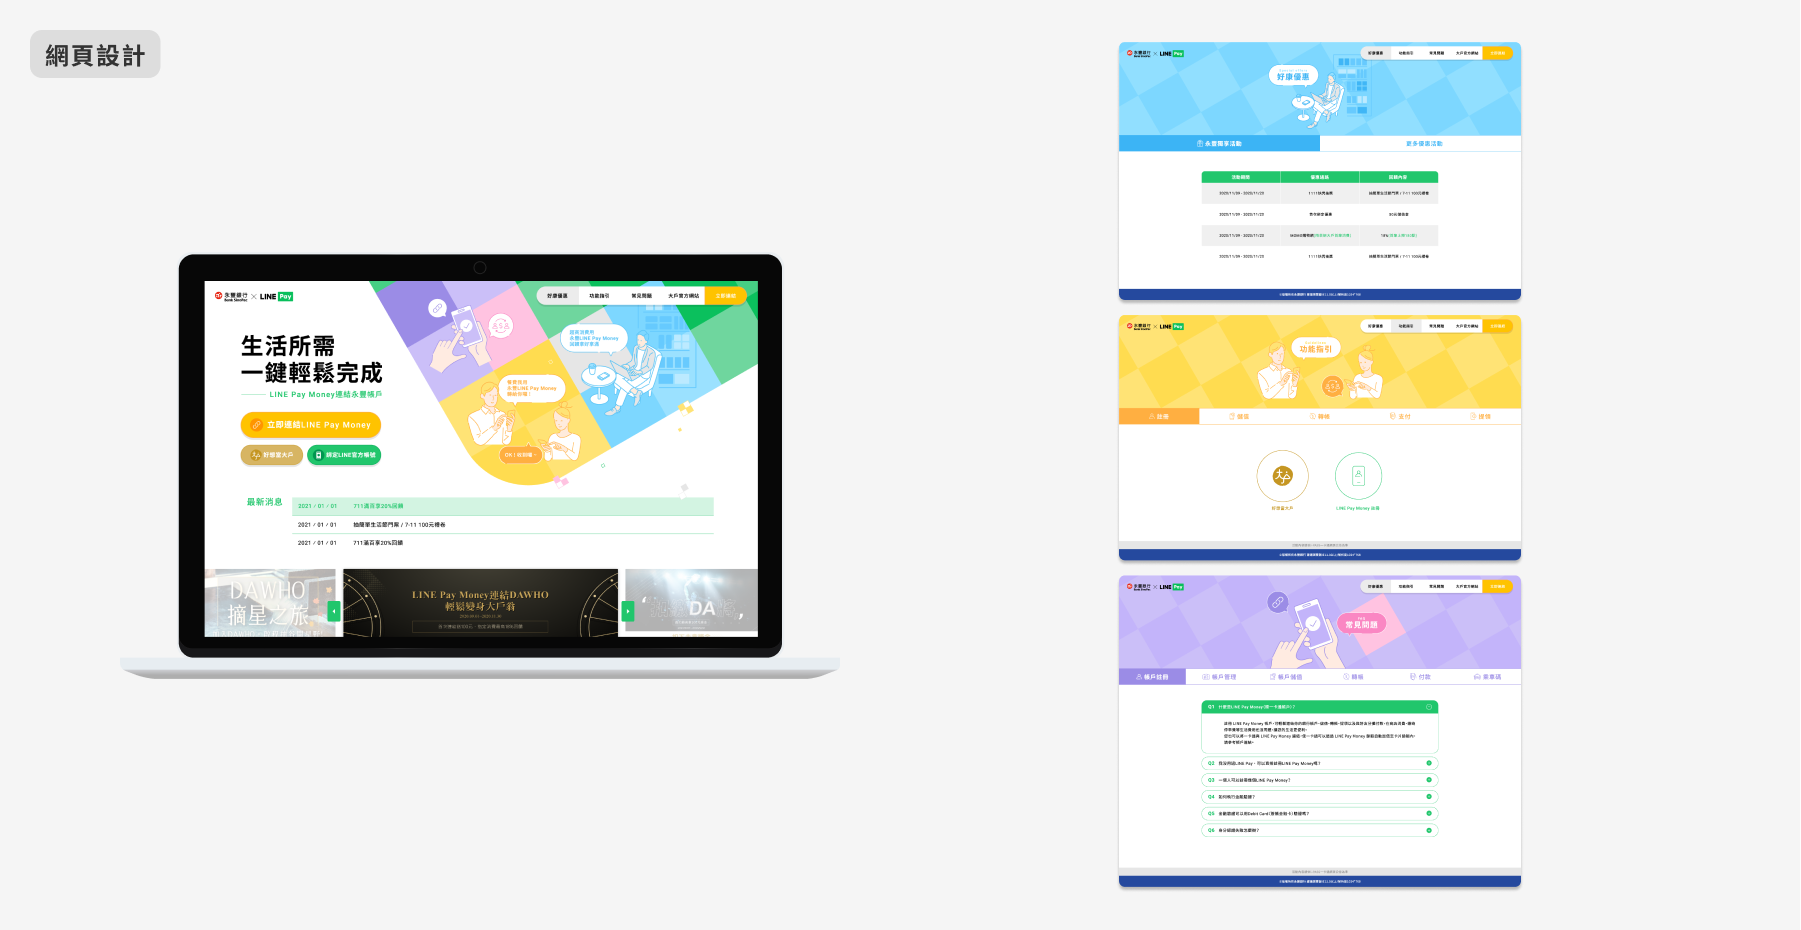
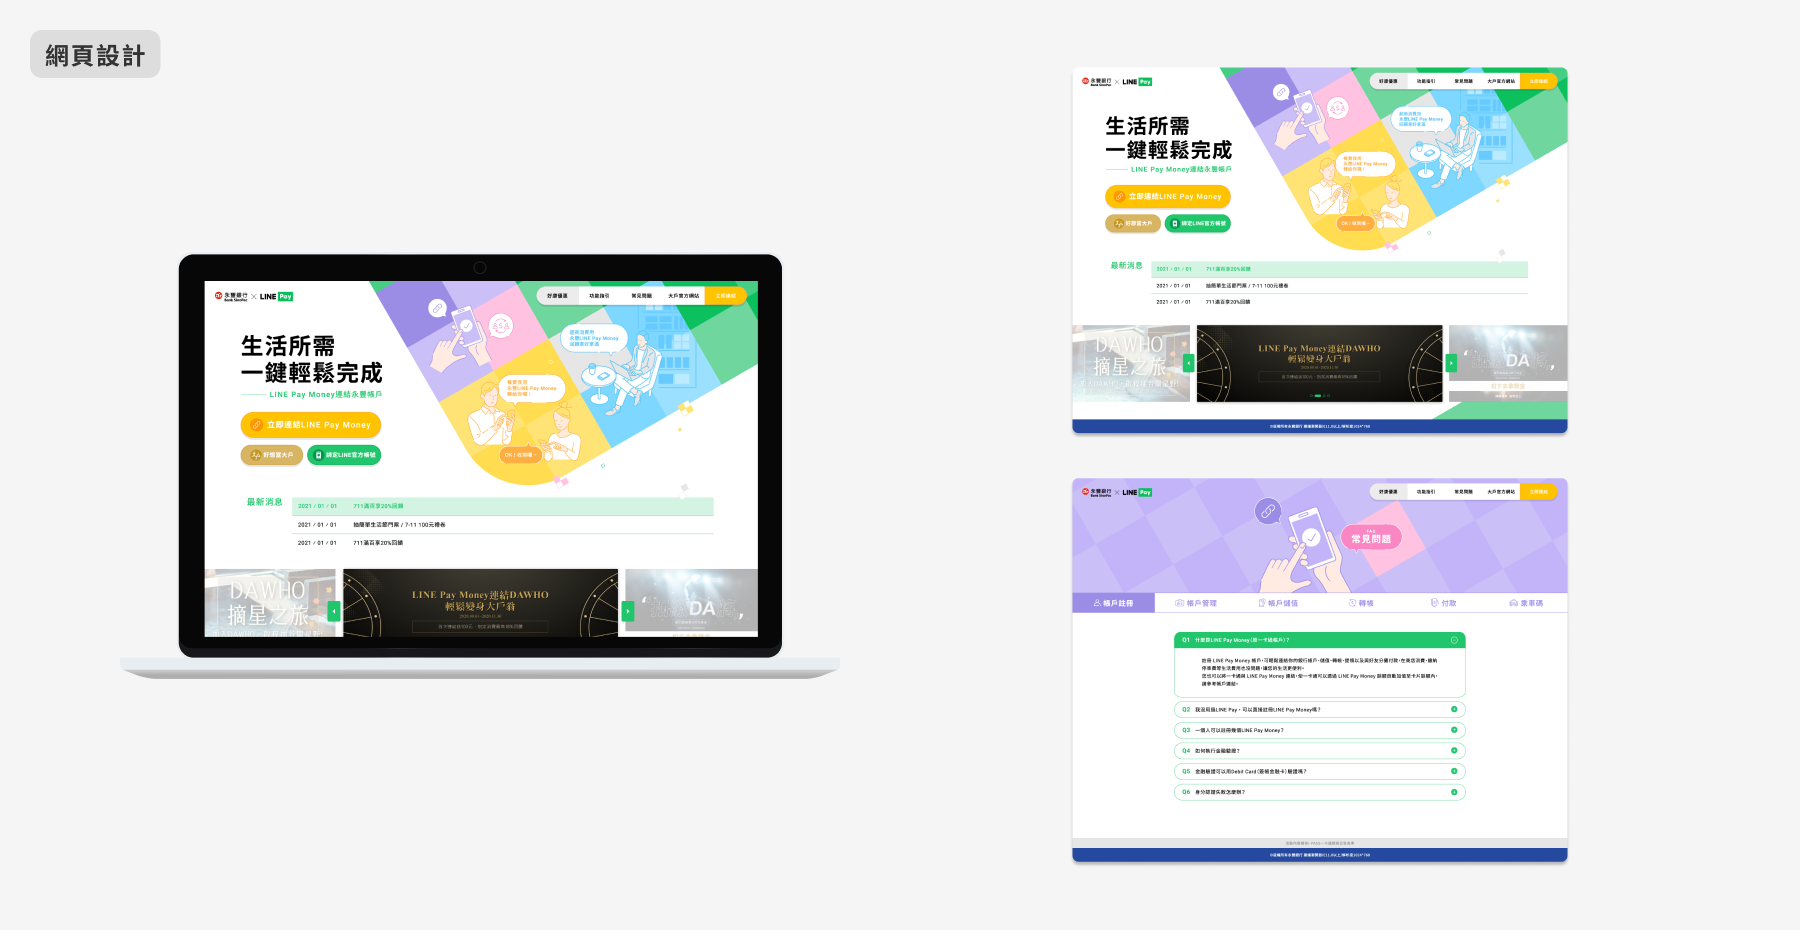
no message

Changed region(s): [[0.5908, 0.4989, 0.8706, 0.9667], [0.5908, 0.0312, 0.8706, 0.4677]]

diff --git a/index.html b/index.html
@@ -94,8 +94,10 @@
                                 class="btn" data-bs-dismiss="modal">Close</button>
                         </div> -->
                     <div class="modal-dialog modal-dialog-scrollable">
-                        <img class="img1" src="index/13.png">
-                        <img class="img1" src="index/14.png">
+                        <img class="img1" src="index/18.png">
+                        <img class="img1" src="index/19.png">
+                        <img class="img1" src="index/20.png">
+                        <img class="img1" src="index/21.png">
                     </div>
                 </div>
                 <h6 class="d-block d-lg-none my-3 text-center">
